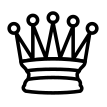
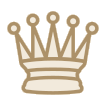
make it more dark

diff --git a/src/App.css b/src/App.css
@@ -3,6 +3,28 @@
   flex-direction: row;
   width: 100%;
 }
+
+:root {
+  --board-light: #c6baa6;
+  --board-dark: #6a5745;
+  --board-border: #3b2f27;
+
+  --hl-hover: #caa56a;
+  --hl-from: #caa56a;
+  --hl-to: #3aa6a1;
+  --hl-last: #b35a5a;
+
+  --panel-bg: #1b1714;
+  --panel-surface: #26211d;
+  --panel-border: #3b2f27;
+  --panel-text: #d7d0c6;
+  --panel-muted: #a79f95;
+
+  --accent: #caa56a;
+  --accent-strong: #b89257;
+  --accent-green: #3aa6a1;
+  --danger: #b35a5a;
+}
 @media all and (max-width: 959px) {
     .js_chess {
     flex-direction: column;
@@ -30,7 +52,7 @@
   display: grid;
   grid-template-columns: repeat(8, 1fr);
   grid-template-rows: auto;
-  border: 10px solid #999999;
+  border: 10px solid var(--board-border);
   width: min(calc(100vw - 450px), 90vh);
   height: min(calc(100vw - 450px), 90vh);
   margin: 0 auto;
@@ -79,24 +101,24 @@
   background-repeat:no-repeat;
 }
 .board .field:hover {
-  -webkit-box-shadow:inset 0px 0px 0px 3px #3366CC;
-  -moz-box-shadow:inset 0px 0px 0px 3px #3366CC;
-  box-shadow:inset 0px 0px 0px 3px #3366CC;
+  -webkit-box-shadow: inset 0px 0px 0px 3px var(--hl-hover);
+  -moz-box-shadow: inset 0px 0px 0px 3px var(--hl-hover);
+  box-shadow: inset 0px 0px 0px 3px var(--hl-hover);
 }
 .board .lastMove {
-  -webkit-box-shadow:inset 0px 0px 0px 2px #FF0033;
-  -moz-box-shadow:inset 0px 0px 0px 2px #FF0033;
-  box-shadow:inset 0px 0px 0px 2px #FF0033;
+  -webkit-box-shadow: inset 0px 0px 0px 2px var(--hl-last);
+  -moz-box-shadow: inset 0px 0px 0px 2px var(--hl-last);
+  box-shadow: inset 0px 0px 0px 2px var(--hl-last);
 }
 .board .moveFrom {
-  -webkit-box-shadow:inset 0px 0px 0px 3px #3366CC;
-  -moz-box-shadow:inset 0px 0px 0px 3px #3366CC;
-  box-shadow:inset 0px 0px 0px 3px #3366CC;
+  -webkit-box-shadow: inset 0px 0px 0px 3px var(--hl-from);
+  -moz-box-shadow: inset 0px 0px 0px 3px var(--hl-from);
+  box-shadow: inset 0px 0px 0px 3px var(--hl-from);
 }
 .board .moveTo {
-  -webkit-box-shadow:inset 0px 0px 0px 2px #33CC33;
-  -moz-box-shadow:inset 0px 0px 0px 2px #33CC33;
-  box-shadow:inset 0px 0px 0px 2px #33CC33;
+  -webkit-box-shadow: inset 0px 0px 0px 3px var(--hl-to);
+  -moz-box-shadow: inset 0px 0px 0px 3px var(--hl-to);
+  box-shadow: inset 0px 0px 0px 3px var(--hl-to);
 }
 .board .pieceP {
   background-image: url(./img/pawn_white.png);
@@ -143,27 +165,27 @@
 body {
   padding: 0;
   margin: 0;
-  background-color: #212121;
+  background-color: #141210;
   font-size: 20px;
-  color: #cccccc;
+  color: var(--panel-text);
 }
 a:visited{
-  color: #4CAF50;;
+  color: var(--accent-green);
 }
 a:link{
-  color: #4CAF50;;
+  color: var(--accent-green);
 }
 
 body .field {
-  background-color: #cccccc;
+  background-color: var(--board-light);
 }
 body .field:nth-of-type(-2n+8), body .field:nth-of-type(8) ~ *:nth-of-type(-2n+15), body .field:nth-of-type(16) ~ *:nth-of-type(-2n+24), body .field:nth-of-type(24) ~ *:nth-of-type(-2n+31), body .field:nth-of-type(32) ~ *:nth-of-type(-2n+40), body .field:nth-of-type(40) ~ *:nth-of-type(-2n+47), body .field:nth-of-type(48) ~ *:nth-of-type(-2n+56), body .field:nth-of-type(56) ~ *:nth-of-type(-2n+63) {
-  background-color: #666666;
+  background-color: var(--board-dark);
 }
 button {
-  background-color: #4CAF50;
+  background-color: var(--accent);
   border: none;
-  color: white;
+  color: #1a1410;
   padding: 15px 32px;
   text-align: center;
   text-decoration: none;
@@ -173,24 +195,35 @@ button {
   border-radius: 10px;
 }
 button:hover {
-  background-color: #006400;
+  background-color: var(--accent-strong);
 }
 button:disabled {
   opacity: .5;
   pointer-events: none;
 }
 .menu #history {
-  background-color: #f0f7fb;
+  background-color: var(--panel-surface);
   line-height: 18px;
   overflow: hidden;
   margin: 10px 0px 10px 0px;
   text-align: center;
   padding: 5px;
-  color: #666666;
+  color: var(--panel-text);
+  border: 1px solid var(--panel-border);
   border-radius: 10px;
   overflow-y: scroll;
   height: 105px;
   font-size: 18px;
+}
+.menu #history b {
+  color: var(--panel-muted);
+  letter-spacing: 0.5px;
+}
+.menu p {
+  color: var(--panel-text);
+}
+.menu strong, .menu b {
+  color: var(--panel-text);
 }
 .menu #copyright {
   margin-top: 50px;
@@ -231,18 +264,19 @@ button:disabled {
   left: 0;
   height: 25px;
   width: 25px;
-  background-color: #eee;
+  background-color: var(--panel-surface);
+  border: 1px solid var(--panel-border);
   border-radius: 50%;
 }
 
 /* On mouse-over, add a grey background color */
 .level_wrapper:hover input ~ .checkmark {
-  background-color: #ccc;
+  background-color: #2f2924;
 }
 
 /* When the radio button is checked, add a blue background */
 .level_wrapper input:checked ~ .checkmark {
-  background-color: #4CAF50;
+  background-color: var(--accent-green);
 }
 
 /* Create the indicator (the dot/circle - hidden when not checked) */
@@ -264,7 +298,7 @@ button:disabled {
   width: 8px;
   height: 8px;
   border-radius: 50%;
-  background: white;
+  background: #f2eadc;
 }
 /* The switch - the box around the slider */
 .switch {
@@ -289,7 +323,7 @@ button:disabled {
   left: 0;
   right: 0;
   bottom: 0;
-  background-color: #ccc;
+  background-color: #3a332d;
   -webkit-transition: .4s;
   transition: .4s;
 }
@@ -301,17 +335,17 @@ button:disabled {
   width: 22px;
   left: 4px;
   bottom: 4px;
-  background-color: white;
+  background-color: #f2eadc;
   -webkit-transition: .4s;
   transition: .4s;
 }
 
 input:checked + .slider {
-  background-color: #4CAF50;
+  background-color: var(--accent-green);
 }
 
 input:focus + .slider {
-  box-shadow: 0 0 1px #4CAF50;
+  box-shadow: 0 0 0 2px rgba(202, 165, 106, 0.35);
 }
 
 input:checked + .slider:before {

diff --git a/scripts/recolor_pieces.py b/scripts/recolor_pieces.py
@@ -1,0 +1,128 @@
+#!/usr/bin/env python3
+"""Recolor chess piece PNGs while preserving transparency and silhouette.
+
+- Keeps original size and alpha.
+- Uses original pixel luminance as a shading mask.
+- Maps shading into a warm, low-glare palette suitable for dark themes.
+- Optionally removes faint white halos (very low alpha + high luminance).
+
+Writes in-place, after copying originals to src/img/original/.
+"""
+
+from __future__ import annotations
+
+import shutil
+from dataclasses import dataclass
+from pathlib import Path
+
+from PIL import Image
+
+
+@dataclass(frozen=True)
+class Palette:
+    shadow: tuple[int, int, int]
+    highlight: tuple[int, int, int]
+    gamma: float = 0.9
+
+
+WHITE_PIECE = Palette(
+    # Warm ivory with gentle shadows (no pure white)
+    shadow=(172, 145, 105),      # #AC9169
+    highlight=(242, 234, 220),   # #F2EADC
+    gamma=0.85,
+)
+
+BLACK_PIECE = Palette(
+    # Dark walnut with subtle warm highlights
+    shadow=(24, 16, 12),         # #18100C
+    highlight=(122, 88, 54),     # #7A5836
+    gamma=0.95,
+)
+
+
+def _luminance(r: int, g: int, b: int) -> float:
+    return (0.2126 * r + 0.7152 * g + 0.0722 * b) / 255.0
+
+
+def _mix(a: tuple[int, int, int], b: tuple[int, int, int], t: float) -> tuple[int, int, int]:
+    t = 0.0 if t < 0.0 else 1.0 if t > 1.0 else t
+    return (
+        int(round(a[0] + (b[0] - a[0]) * t)),
+        int(round(a[1] + (b[1] - a[1]) * t)),
+        int(round(a[2] + (b[2] - a[2]) * t)),
+    )
+
+
+def recolor_image(path: Path, palette: Palette) -> None:
+    im = Image.open(path).convert("RGBA")
+    w, h = im.size
+    src = im.load()
+
+    out = Image.new("RGBA", (w, h))
+    dst = out.load()
+
+    # Halo removal: if a pixel is almost transparent but bright, drop it.
+    # This targets the common "white glow" edge artifact.
+    HALO_ALPHA_MAX = 55
+    HALO_LUM_MIN = 0.80
+
+    for y in range(h):
+        for x in range(w):
+            r, g, b, a = src[x, y]
+            if a == 0:
+                dst[x, y] = (0, 0, 0, 0)
+                continue
+
+            lum = _luminance(r, g, b)
+            if a <= HALO_ALPHA_MAX and lum >= HALO_LUM_MIN:
+                dst[x, y] = (0, 0, 0, 0)
+                continue
+
+            # Use luminance as the shading mask; clamp highlights to avoid glare.
+            t = lum ** palette.gamma
+            nr, ng, nb = _mix(palette.shadow, palette.highlight, t)
+            dst[x, y] = (nr, ng, nb, a)
+
+    out.save(path, format="PNG")
+
+
+def main() -> int:
+    repo_root = Path(__file__).resolve().parents[1]
+    img_dir = repo_root / "src" / "img"
+    backup_dir = img_dir / "original"
+
+    if not img_dir.exists():
+        raise SystemExit(f"Missing folder: {img_dir}")
+
+    pngs = sorted(p for p in img_dir.glob("*.png") if p.is_file())
+    if not pngs:
+        print(f"No PNGs found in {img_dir}")
+        return 0
+
+    backup_dir.mkdir(exist_ok=True)
+
+    # Copy originals once (don’t overwrite if already backed up)
+    for p in pngs:
+        dst = backup_dir / p.name
+        if not dst.exists():
+            shutil.copy2(p, dst)
+
+    changed = 0
+    for p in pngs:
+        name = p.name.lower()
+        if "_white" in name:
+            recolor_image(p, WHITE_PIECE)
+            changed += 1
+        elif "_black" in name:
+            recolor_image(p, BLACK_PIECE)
+            changed += 1
+        else:
+            # Skip unknown naming
+            continue
+
+    print(f"Recolored {changed} piece images. Originals in {backup_dir}")
+    return 0
+
+
+if __name__ == "__main__":
+    raise SystemExit(main())
